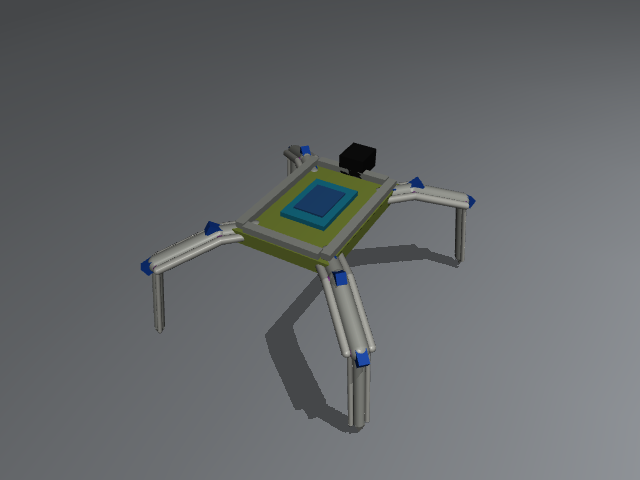
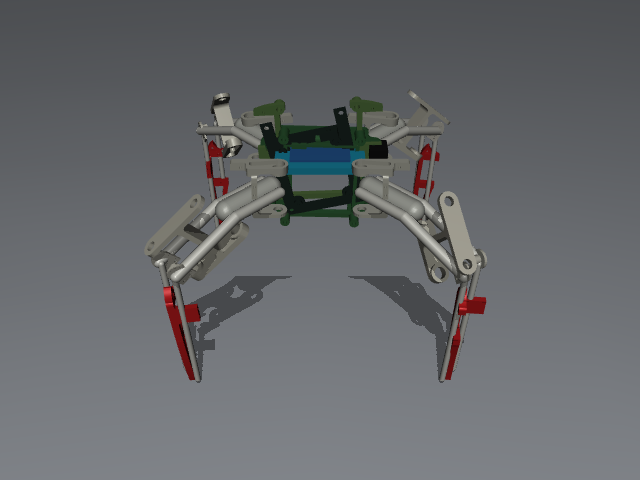
Document MuJoCo robot model and setup

diff --git a/mujoco/README.md b/mujoco/README.md
@@ -13,7 +13,7 @@ uv sync
 uv run python mujoco/control_test.py
 ```
 
-The program opens a MuJoCo viewer and a separate control window. Close either window to end the session. Each run creates a CSV log under `mujoco/logs/`.
+The program opens a MuJoCo viewer and a separate control window. Physics advances at the model's 2 ms timestep against a wall-clock accumulator, with multiple physics steps between viewer refreshes, so one simulation second is approximately one real second when the computer keeps up. Close either window to end the session. Dataset files are created only when you start an episode in the control window; see [Recording dataset episodes](#recording-dataset-episodes).
 
 ## Front camera
 
@@ -45,34 +45,49 @@ This is a virtual simulation camera. A physical camera module, its connection to
 
 The Drive panel uses hold-to-move controls:
 
-- Hold Forward or Backward to move; release the button to stop the gait.
-- Hold Turn Left or Turn Right to rotate; release the button to stop turning.
+- Hold Forward or Backward to move; release the button to stop the gait and return to the joint pose you set with the sliders.
+- Hold Turn Left or Turn Right to rotate; release the button to stop turning and hold that same manual pose.
 - The arrow keys and WASD do the same while the Tkinter control window has keyboard focus. Releasing the key stops that motion.
-- Stop ends the gait and holds the current slider targets.
-- Stop and return to standing pose stops the gait and sets the joint targets to the model's standing pose.
+- Stop ends the gait and returns to the manual slider pose captured when movement began.
+- Stop and return to standing pose explicitly sets all joint targets to the model's default standing pose.
 
 The standing pose splays the femurs away from the chassis and points the tibias down to the floor, giving the robot a low, crab-like stance. The default viewer camera is set to show the legs from above and from one side.
 
-The gait is a quicker continuous crawl sequence. It assigns a different phase to each leg so only one foot lifts at a time while the other three support the body. Forward/backward use a 50 mm stance/swing path; turns use a wider 90 mm arc to make yaw changes visible. Foot lift is about 22 mm and the nominal cycle is 1.05 Hz. Inverse kinematics converts foot targets to coxa, femur, and tibia angles. Direction buttons and keys keep hold-to-move behavior: pressing starts the selected gait, and releasing returns control to the standing pose. Left and right use opposite stance sweeps. Servo housings, horn discs, and decorative bracket rails are visual-only geoms with contact disabled; the frame, primary links, feet, and floor provide the physical contacts.
+Gravity is `-9.81 m/s²` and is active in every mode. `Optional virtual pose stabilization` is off by default. If enabled, it applies an external spring-damper wrench to the chassis while stopped and therefore overrides natural falling; leave it off for real-time gravity/contact behavior and for dataset episodes that should represent unassisted physics. It is not a physical actuator or hardware balance controller.
+
+The gait is a continuous, one-foot-at-a-time four-beat crawl based on the supplied Arduino reference. It assigns a quarter-cycle offset to each leg and interpolates the chassis target toward the nominal triangle formed by the supporting feet. Each swing moves its foot forward and up; each stance sweeps it backward against the floor. The trajectories use quintic easing to avoid abrupt reversals. Forward, backward, and turn commands use a 40 mm stance/swing path. The nominal swing lift is 30 mm over a 2 mm stance preload (28 mm net lift), and the cycle is 0.85 Hz. When movement starts from the deeply crouched slider pose shown in the shared screenshot, the joints first ease over 1.2 seconds into a walk-ready stance (femur -45°, tibia +65°). That gives the IK room to lift and plant each claw without commanding beyond the joint stops. Releasing the direction eases back to the manual slider pose. The gait clock resets on a new direction so movement starts from a predictable foot phase. Left and right use opposite stance sweeps. Episode metadata records gait and actuator settings, including the transition stance, so new data can be distinguished from older recordings. Printed STL meshes are visual-only; hidden toe spheres are positioned at the actual pointed claw tips, with narrower tibia collision capsules so the tips contact the floor first.
+
+The virtual position servos use a 0.45 Nm torque limit for clearer joint motion in simulation. This is a visual-control setting, not a measured SG90 torque model; replace it with measured servo torque, speed, and load before treating the simulation as hardware-calibrated.
+
+### Video movement reference
+
+The gait and stance were compared with the [Spider Robot v3.0 demo](https://youtu.be/5hAmD499sJs). The visible robot has a low central body, legs spread outward, and narrow pointed feet. Its leg movement is a crawl with individual feet lifting and returning to the floor, rather than a wheeled or holonomic glide. The original demonstration uses finite step sequences, while Midori keeps the requested hold-to-move control: it continues while a direction is held and stops on release.
 
 This remains an initial simulator gait, not a calibrated physical-robot controller. The model uses estimated dimensions and contact properties. It can still slide, tip, or walk imperfectly; tune it against the exact printed frame before transferring commands to hardware. Use the sliders for individual joint inspection.
 
-## Automatic motion tracking
+## Recording dataset episodes
 
-The controller records at most 10 rows per real-time second. Sampling uses a wall clock, so speeding up the MuJoCo viewer does not increase the recording rate. Each CSV contains up to 5,000 data rows; longer runs automatically continue in the next numbered CSV part. For example: `mujoco/logs/motion_20261026_120000_123456_part001.csv`.
+The controller records only when an episode is started from the `Dataset episode capture` panel. Select a task, select the result at the end, press `Start episode`, demonstrate the task with the hold-to-move controls, then press `End episode and save`. Use one episode for one short task attempt; for example, select `walk_forward`, record a short forward command and release, then mark its outcome.
 
-Each CSV contains:
+Each episode is saved to its own folder:
 
-- A local recording timestamp for each sample.
-- Simulation time and active movement mode.
-- Chassis position in metres and orientation as a quaternion.
-- Chassis linear and angular velocity.
-- Target angle, simulated joint angle, and simulated joint velocity for each of the 12 joints.
-- World-space XYZ position of each foot.
+```text
+mujoco/logs/episodes/sim_<timestamp>/
+  episode.json
+  state_action.csv
+```
 
-The `target_*` columns are commands sent to the simulator. The `actual_*` columns are the MuJoCo simulated joint positions. These are not physical servo encoder readings. When the ESP32 link is implemented, real servo telemetry and timestamps should be added as separate fields so simulated commands can be compared with measured hardware motion.
+Rows are sampled every 0.02 simulation seconds (50 Hz nominal), rather than every fixed wall-clock interval. A 10-second simulation episode is about 500 rows. `episode.json` stores the task, simulation source, schema version, simulation timestep, outcome, duration, and timestamped command press/release events. If the app closes during recording, the episode is finalized with outcome `interrupted`.
 
-Logs are written and flushed while the simulation is running, so a normally closed run leaves a readable CSV file. The `logs/` folder is ignored by Git to avoid committing large run histories.
+`state_action.csv` stores episode and step IDs; episode/simulation timestamps; movement mode; whether virtual balance assist is active; body position, quaternion, linear and angular velocity; target and simulated actual angle/velocity for all 12 joints; world-space foot XYZ; and a per-foot floor-contact flag. Episode metadata records whether manual-pose balance assist was enabled and command events record changes to it. The `target_*` columns are commands sent to MuJoCo. The `actual_*` columns are simulated joint positions, not physical servo encoder readings. Every episode is marked `mujoco_simulation`; do not mix these values with hardware data without a separate `source` label.
+
+The `logs/` folder is ignored by Git so run data is not accidentally committed. Back up episodes you want to keep in the dataset directory before cleaning or regenerating logs.
+
+### First pilot collection
+
+Start with five short episodes for each of `stand_balance`, `walk_forward`, `walk_backward`, `turn_left`, and `turn_right` (25 episodes total). Keep each attempt around 5–10 simulated seconds. Select one task before recording, start the episode, issue only that task with the hold controls, release to stop, select the correct outcome, and save. Use `mixed_command_sequence` only after the single-command episodes look correct. Do not discard a fall or bad turn; mark its outcome so it can be filtered or studied later.
+
+Inspect a few CSVs before collecting more: episode time should increase in 0.02-second steps, command events should align with the intended controls, target and actual angles should differ only when the simulated joint lags, and foot-contact flags should change as feet lift and land. At 50 Hz, five seconds gives about 250 rows. The first pilot validates recording and labels; it is not yet enough to claim a robust trained policy.
 
 ## Current model
 
@@ -84,13 +99,15 @@ Logs are written and flushed while the simulation is running, so a normally clos
 | `*_hip_pitch` | Femur pitch |
 | `*_knee_pitch` | Tibia/knee pitch |
 
-The model uses gravity, contact with a ground plane, and position actuators for the 12 joints. The visible geometry has been revised using the supplied CAD screenshot as a visual reference: a rectangular center frame with a raised perimeter, a blue electronics panel, compact inset servo details, small horn discs, and light printed-style brackets and link rails. The lower links taper visually and end in small pointed tips; there are no spherical wheel-like feet. Servo cases, horns, and decorative rails are visual-only so they do not collide with and jam the moving links. The frame, primary links, pointed tips, and floor provide the physical contacts.
+The model uses gravity, a ground plane, and position actuators for the 12 joints. The supplied STLs are copied into `mujoco/assets/` and used for the layered body, coxa brackets, femur links, hinge brackets, and long pointed tibia/claws. The four coxa meshes sit on the yaw links, the femur meshes follow hip pitch, and the red tibia meshes follow the knee joints. The displayed body and leg contours now come from the provided parts instead of generic wheel-like or capsule-only visuals. A compact collision core and limb proxies retain stable contact behavior; the decorative STL meshes do not collide.
 
-The screenshot is a perspective image rather than a dimensioned CAD export. The XML therefore remains a visual/mechanical approximation: the original STL meshes, exact servo models, pivot coordinates, frame dimensions, link lengths, masses, center of mass, and joint stops have not been recovered from the image. The control-facing joint and actuator names remain unchanged. Do not interpret the visual update as measured mechanical calibration.
+The mesh dimensions are now available from the files, but their final pivots, servo neutral positions, masses, center of mass, joint stops, and collision hulls are still estimates. Mesh orientations and mount offsets are approximated from the supplied assembly photo and the shared CAD coordinate frame. Do not treat this visual update as measured servo calibration.
+
+All four femur-pitch joints now allow a simulator minimum of -86° (with the prior +60° upper limit). Their position actuators use the same range so the slider can reach that endpoint. This is a simulation setting; verify the printed bracket and servo hard stop before copying it to the physical robot.
 
 ### Assumptions that still need measurements
 
-The product is a printed-parts kit sold without servos. The seller identifies two versions for different servo-horn sizes. The exact servo model, STL dimensions, mass, and calibrated joint ranges are not specified in the model. The current approximate values include a 130 mm by 90 mm chassis footprint, a 30 mm coxa, approximately 57 mm femur, and approximately 71 mm tibia. These are modeling placeholders, not verified product specifications.
+The product is a printed-parts kit sold without servos. The seller identifies two versions for different servo-horn sizes. The provided STL bounds are about 84 by 76 mm for the body plates, 38 by 39 mm for the coxa parts, about 50 mm for the femur, and 100 mm long for each pointed tibia. The kinematic pivot-to-pivot distances are not identical to part bounding-box lengths and still need measurement. Servo model, mass, and calibrated joint ranges are not specified.
 
 Before treating the simulation as a twin, measure the actual frame and record:
 
@@ -117,14 +134,14 @@ These are plans, not implemented features. There is currently no multimodal mode
 
 ## Current simulator preview
 
-The screenshot below shows the CAD-inspired model in its standing pose. Blue insets represent approximate servo locations, the small purple discs represent approximate horns, and the pale link rails represent the printed brackets/links. The narrow, light-colored tips replace the earlier round feet. Colors and shapes are visual aids, not verified surface geometry.
+The screenshot below shows the updated STL-based model in its standing pose. It uses the supplied body frames and articulated printed leg shapes with pointed red claw meshes. Simplified hidden collision proxies remain for simulation stability.
 
-![Earlier MuJoCo prototype screenshot](screenshot.png)
+![STL-based MuJoCo spider model](screenshot.png)
 
 ## Suggested next simulator work
 
-1. Replace the placeholder links with measured dimensions or meshes from the exact printed-parts version.
+1. Measure servo pivot-to-pivot distances and refine the STL mount transforms.
 2. Calibrate each simulated joint's zero direction and range against the assembled robot.
-3. Tune or replace the initial gait with foot-space inverse kinematics and measured servo timing.
+3. Refine the collision hulls and test floor contact with the measured assembled mass.
 4. Compare each motion log with real ESP32 telemetry after that interface exists.
 5. Define repeatable simulation and hardware evaluation tasks before using reinforcement learning.

diff --git a/mujoco/robot_spec.md b/mujoco/robot_spec.md
@@ -2,39 +2,47 @@
 
 ## Target design
 
-- Printed Bots Quadruped Spider Robot, 3D-printed frame kit.
-- The linked kit is sold without servos. Midori's intended assembled configuration is 12 servos: 3 per leg.
-- The seller describes two frame variants for original-size and larger-clone servo horns. Confirm which version matches the printed parts before finalizing servo mounts.
-- The current MuJoCo appearance was revised from the supplied perspective CAD screenshot to include the center frame, electronics panel, compact inset servo details, small horn discs, bracketed links, and pointed toe tips (not spherical feet).
-- The screenshot is not a dimensioned CAD export. The model remains a spider-style approximation, not a dimensionally accurate twin; the listing/image does not establish overall dimensions, pivot coordinates, masses, or joint limits.
+- Printed Bots quadruped spider frame kit with four legs.
+- Intended control layout: 12 servos, three per leg (coxa yaw, femur pitch, tibia/knee pitch).
+- The kit is sold without servos; confirm the printed bracket version against the selected servo and horn size before hardware assembly.
+- The supplied STL parts are stored in `mujoco/assets/` and used as articulated visual meshes in `hello.xml`.
+- Mesh dimensions below are file bounds, not calibrated joint-center distances.
 
-## 1. Main chassis
+## 1. Body and printed parts
 
-- Length: UNKNOWN (current MuJoCo placeholder: 130 mm)
-- Width: UNKNOWN (current MuJoCo placeholder: 90 mm)
-- Height: UNKNOWN
+| Part | Approximate STL bounds (mm) | Current MuJoCo use |
+|---|---:|---|
+| `body-d.stl` | 83.5 × 75.8 × 13.9 | Lower body frame visual |
+| `body-u.stl` | 85.5 × 76.5 × 8.0 | Upper body frame visual |
+| `body-m.stl` | 71.6 × 84.9 × 8.9 | Middle plate visual |
+| `coxa-f.stl`, `coxa-b.stl` | 38.1 × 39.3 × 20.2 | Shoulder bracket visuals |
+| `femur.stl` | 49.5 × 40.2 × 12.0 | Articulated upper-link visual |
+| `tibia-f.stl`, `tibia-b.stl` | 100.4 × 25.0 × 16.6 | Articulated pointed claw visuals |
+| `hinge.stl` | 16.1 × 12.0 × 6.8 | Printed joint bracket visuals |
 
-## 2. Legs
+The CAD STL files use a shared assembly/print coordinate frame. `hello.xml` maps those shapes into the robot's X-forward, Y-left, Z-up convention. Mesh attachment offsets and some part-to-leg assignments are visual estimates from the shared assembly image; check them against the physical assembly before treating the scene as a digital twin.
 
-- Number of legs: 4
-- Intended servos: 12 total, 3 per leg; servo model not confirmed
-- Leg joints: coxa yaw, femur pitch, tibia/knee pitch
-- Coxa length: UNKNOWN (current MuJoCo placeholder: 30 mm)
-- Femur length: UNKNOWN (current MuJoCo placeholder: approximately 57 mm)
-- Tibia length: UNKNOWN (current MuJoCo placeholder: approximately 71 mm)
-- Total standing height: UNKNOWN
+## 2. Current simulated geometry and control
 
-## 3. Weight
+- Four legs with 3 revolute joints per leg: coxa yaw, femur pitch, tibia pitch.
+- Position actuators exist for all 12 joints.
+- The supplied STL meshes are visual-only. Simplified boxes/capsules provide the main collision and mass proxies, and small hidden toe contacts provide foot-ground contact.
+- Gravity remains enabled at `-9.81 m/s²`; virtual pose stabilization is off by default. If explicitly enabled, it applies an external chassis spring-damper while stopped and overrides natural falling.
+- Current kinematic link projections are 36 mm coxa, 50 mm femur, and about 115 mm from knee pivot to STL claw tip. The tibia endpoint was updated from measured STL vertex placement; joint centers and segment masses remain estimates.
+- Hidden toe contact spheres now sit at the visible claw tips. Tibia collision capsules are narrower than the toe spheres so the printed claws contact the floor first.
+- Simulation advances with a wall-clock accumulator at the 2 ms model timestep. Physics steps are batched between viewer refreshes for approximately real-time motion.
+- Virtual position actuators are tuned to 0.45 Nm for clearer simulation joint tracking. This setting is not SG90 calibrated and must not be copied to hardware without measuring the installed servos.
+- Femur pitch simulator range is currently -86° to +60° for all four legs. Confirm the physical servo/bracket hard stop before using this range on hardware.
+- A low four-beat crawl swings one foot at a time. Direction controls operate while held and stop on release.
+- Gravity is enabled at `-9.81 m/s²` along world Z.
 
-- 3D-printed frame weight: UNKNOWN
-- Total assembled weight: UNKNOWN
+## 3. Still unknown or requiring measurement
 
-## 4. Measurements to verify
+- Servo make/model, horn type, output shaft offsets, and mounting clearances.
+- Exact joint centers and pivot-to-pivot distances.
+- Servo neutral angles, rotation signs, hard stops, and safe operating ranges.
+- Printed frame mass, total assembled mass, and center of mass.
+- Correct physical collision geometry, surface friction, and claw contact point.
+- Final stance footprint, body ground clearance, and loaded deflection.
 
-- [ ] Chassis length, width, and thickness
-- [ ] Coxa, femur, and tibia pivot-to-pivot lengths
-- [ ] Servo model and kit version (original-size or larger-clone horn)
-- [ ] Joint axes, servo horn zero positions, and safe angular limits
-- [ ] Total assembled weight and center of mass
-- [ ] Overall stance width/length and ground clearance
-- [ ] Servo case dimensions and horn orientation at each joint
+Measure the physical robot before transferring joint commands from the simulator to the ESP32. STL visual geometry improves shape and proportions but does not establish safe servo calibration or physical dynamics.
